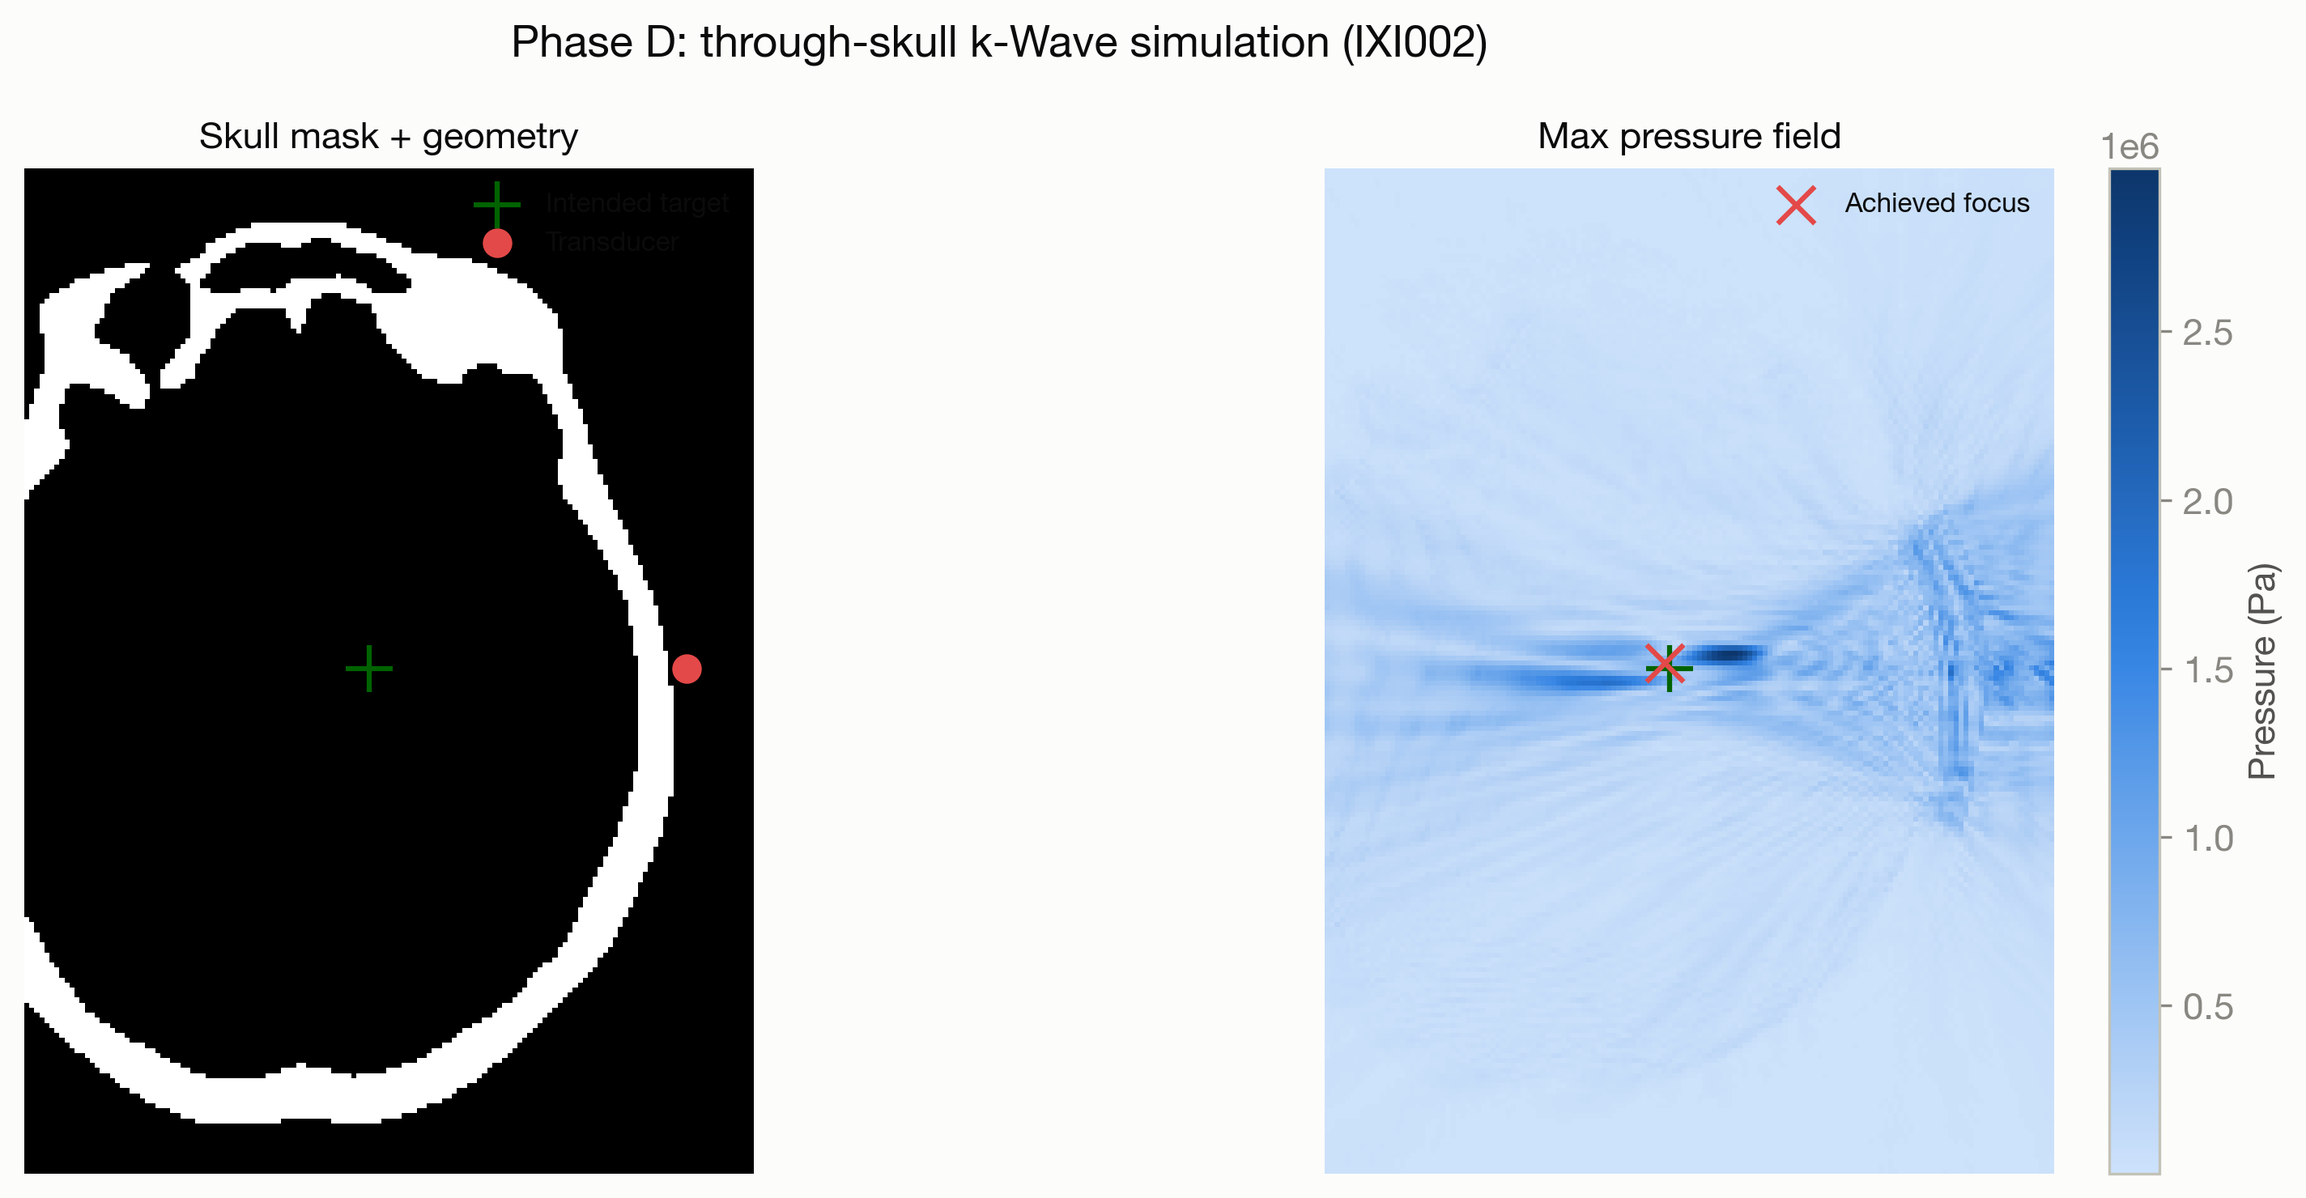
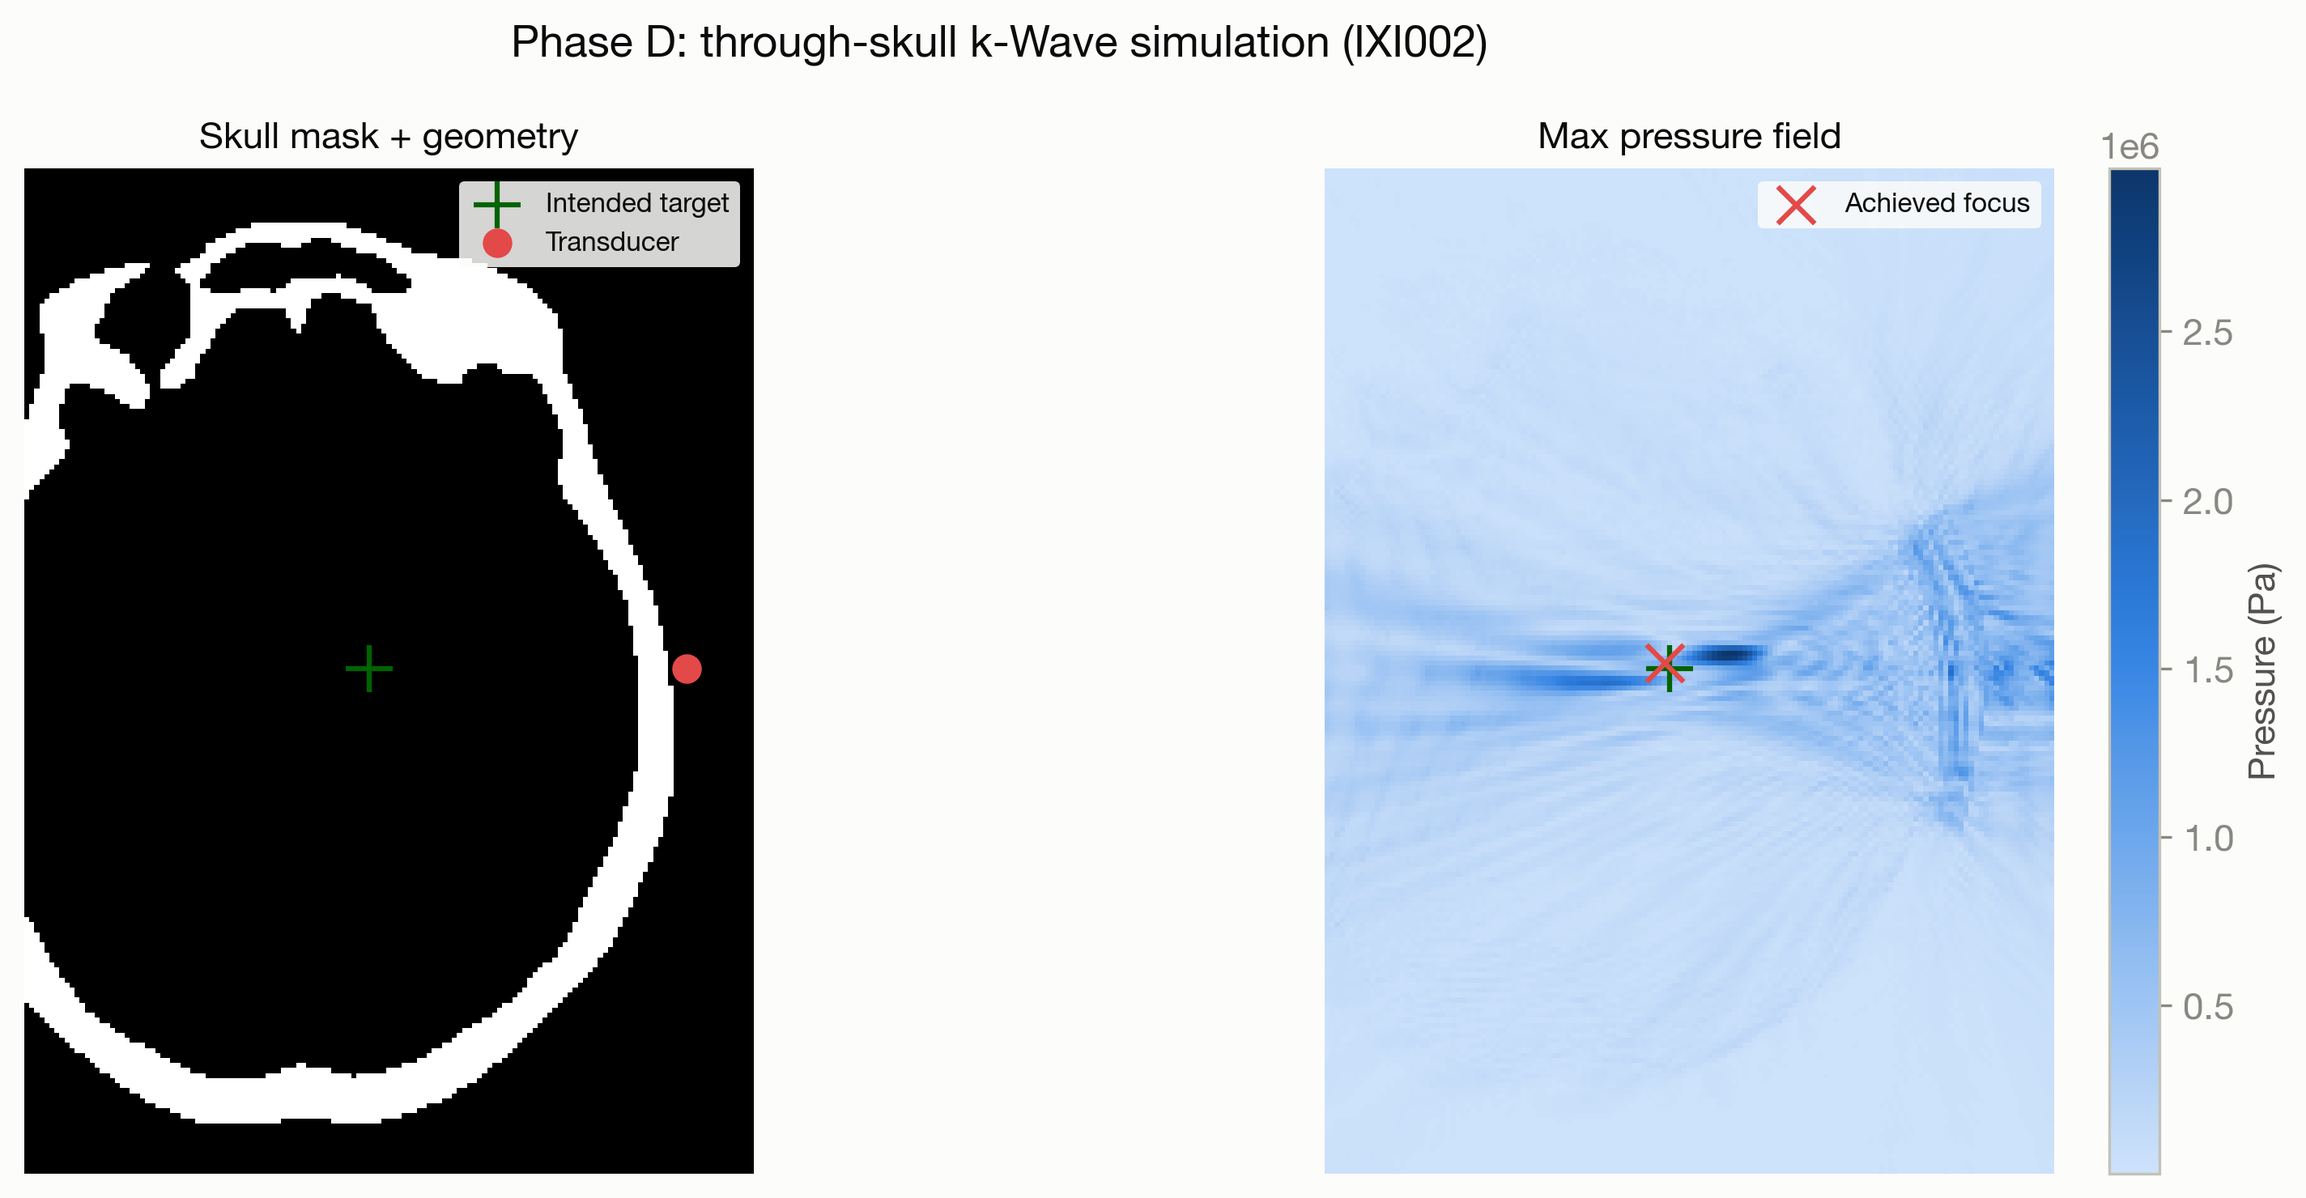
One-subject pipeline Phase F: skull descriptors + legend readability fix
Phase F: src/fus_targeting/features/skull_descriptors.py extracts the
simple, fast skull features the eventual model predicts from --
thickness, mean/max density, SDR (skull density ratio, averaged over
a small ray fan across the aperture), entry angle (beam vs. local
outer-surface normal), and local radius of curvature (quadratic
surface fit to nearby outer-skull points). For IXI002: 6.0mm thick,
1141/1617 HU mean/max, SDR 0.36, 4.4deg entry angle, 156mm ROC --
all in physically plausible ranges.

Investigated and confirmed benign a divide-by-zero/overflow/invalid
RuntimeWarning in the curvature fit's matmul: reproduces even on
random synthetic data whenever a basis vector has an exact-zero
component, is specific to macOS's Accelerate BLAS backend, and the
result is bit-identical to a manual per-row dot product. Suppressed
with a documented comment.

Also: legends in Phase D/E/F figures were unreadable (dark text with
no background, sitting directly over black anatomical-slice
imshows). Added legend_on_image() to the shared style module (opaque
surface-colored background) and regenerated all three figures.

Changed region(s): [[0.1875, 0.1243, 0.3438, 0.2486], [0.75, 0.1243, 0.9062, 0.2176]]

diff --git a/src/fus_targeting/features/skull_descriptors.py b/src/fus_targeting/features/skull_descriptors.py
@@ -1,0 +1,184 @@
+"""Extract simple, fast skull descriptors at the beam entry point -- the
+input features the whole project is trying to predict targeting error and
+energy loss from, without running the full simulation.
+"""
+
+import warnings
+from dataclasses import dataclass
+
+import numpy as np
+
+
+@dataclass
+class SkullDescriptors:
+    entry_point_voxel: np.ndarray
+    thickness_mm: float
+    density_hu_mean: float
+    density_hu_max: float
+    sdr: float                     # skull density ratio (established clinical metric)
+    entry_angle_deg: float         # angle between beam and skull surface normal (0 = perpendicular)
+    radius_of_curvature_mm: float  # local outer-surface radius of curvature at entry point
+
+
+def _sample_ray(volume: np.ndarray, start: np.ndarray, end: np.ndarray, n_samples: int) -> np.ndarray:
+    """Nearest-neighbor sample `volume` along the straight line from start to
+    end (voxel coordinates); fine at 1mm grid resolution for this purpose."""
+    t = np.linspace(0, 1, n_samples)
+    points = start[None, :] + t[:, None] * (end - start)[None, :]
+    idx = np.round(points).astype(int)
+    idx = np.clip(idx, 0, np.array(volume.shape) - 1)
+    return volume[idx[:, 0], idx[:, 1], idx[:, 2]]
+
+
+def _find_outer_skull_surface_points(skull_mask: np.ndarray, center_voxel: np.ndarray, radius_vox: int) -> np.ndarray:
+    """Surface voxels (skull with at least one non-skull neighbor) within a
+    cube of the given radius around center_voxel."""
+    center_voxel = np.round(np.asarray(center_voxel)).astype(int)
+    lo = np.clip(center_voxel - radius_vox, 0, None)
+    hi = np.clip(center_voxel + radius_vox + 1, None, np.array(skull_mask.shape))
+    sub = skull_mask[lo[0]:hi[0], lo[1]:hi[1], lo[2]:hi[2]]
+
+    eroded = np.ones_like(sub, dtype=bool)
+    eroded[1:-1, 1:-1, 1:-1] = sub[1:-1, 1:-1, 1:-1] & sub[:-2, 1:-1, 1:-1] & sub[2:, 1:-1, 1:-1] \
+        & sub[1:-1, :-2, 1:-1] & sub[1:-1, 2:, 1:-1] & sub[1:-1, 1:-1, :-2] & sub[1:-1, 1:-1, 2:]
+    surface = sub & ~eroded
+
+    local_idx = np.argwhere(surface)
+    return local_idx + lo
+
+
+def _estimate_curvature(skull_mask: np.ndarray, entry_point: np.ndarray, direction: np.ndarray, patch_radius_mm: float = 15.0) -> float:
+    """Fit a quadratic surface to local outer-skull points near the entry
+    point (in a frame aligned with the beam direction) and estimate the mean
+    radius of curvature from the fit's second-order coefficients."""
+    surface_points = _find_outer_skull_surface_points(skull_mask, entry_point, int(patch_radius_mm))
+    if len(surface_points) < 10:
+        return np.nan
+
+    centered = surface_points - entry_point
+    dist = np.linalg.norm(centered, axis=1)
+    nearby = centered[dist <= patch_radius_mm]
+    if len(nearby) < 10:
+        return np.nan
+
+    # local frame: u,v span the plane perpendicular to `direction`; w along `direction`
+    w = direction / np.linalg.norm(direction)
+    arbitrary = np.array([1.0, 0.0, 0.0]) if abs(w[0]) < 0.9 else np.array([0.0, 1.0, 0.0])
+    u = np.cross(w, arbitrary); u /= np.linalg.norm(u)
+    v = np.cross(w, u)
+
+    # nearby @ u (etc.) triggers spurious divide-by-zero/overflow/invalid
+    # RuntimeWarnings from macOS's Accelerate BLAS backend whenever u/v/w
+    # has an exact-zero component -- verified against random synthetic data
+    # that the matmul result is bit-identical to a manual per-row dot
+    # product (no NaN/Inf), so this is a known false positive, not a bug.
+    with warnings.catch_warnings():
+        warnings.simplefilter("ignore", RuntimeWarning)
+        uu = nearby @ u
+        vv = nearby @ v
+        ww = nearby @ w
+
+    # fit w = a*u^2 + b*v^2 + c*u*v + d*u + e*v + f
+    A = np.column_stack([uu**2, vv**2, uu * vv, uu, vv, np.ones_like(uu)])
+    coeffs, *_ = np.linalg.lstsq(A, ww, rcond=None)
+    a, b = coeffs[0], coeffs[1]
+
+    mean_curvature = (a + b)  # for a near-flat patch, w ~ a*u^2+b*v^2 -> curvature ~ 2a,2b; a+b is proportional to mean curvature
+    if abs(mean_curvature) < 1e-8:
+        return np.inf
+    return float(1.0 / (2 * abs(mean_curvature)))
+
+
+def compute_skull_descriptors(
+    pct_hu: np.ndarray,
+    skull_mask: np.ndarray,
+    target_voxel: np.ndarray,
+    transducer_voxel: np.ndarray,
+    aperture_diameter_mm: float,
+    dx_mm: float = 1.0,
+    n_beam_rays: int = 9,
+) -> SkullDescriptors:
+    target_voxel = np.asarray(target_voxel, dtype=float)
+    transducer_voxel = np.asarray(transducer_voxel, dtype=float)
+    direction = target_voxel - transducer_voxel
+    axis_length = np.linalg.norm(direction)
+    direction_unit = direction / axis_length
+
+    n_samples = int(axis_length) * 2
+    profile_hu = _sample_ray(pct_hu, transducer_voxel, target_voxel, n_samples)
+    profile_mask = _sample_ray(skull_mask, transducer_voxel, target_voxel, n_samples) > 0.5
+
+    if not profile_mask.any():
+        raise RuntimeError("No skull crossing found along the central beam ray.")
+
+    skull_hu = profile_hu[profile_mask]
+    thickness_mm = float(profile_mask.sum()) * (axis_length * dx_mm / n_samples)
+
+    entry_idx = np.argmax(profile_mask)  # first sample (from transducer side) that's skull
+    entry_point = transducer_voxel + (entry_idx / n_samples) * direction
+
+    # SDR (skull density ratio): min/max HU ratio along parallel rays across
+    # the aperture, averaged -- approximates the clinical SDR definition
+    # (mean of per-element-path min/max ratios) with a small ray fan instead
+    # of full per-element modeling.
+    arbitrary = np.array([1.0, 0.0, 0.0]) if abs(direction_unit[0]) < 0.9 else np.array([0.0, 1.0, 0.0])
+    u = np.cross(direction_unit, arbitrary); u /= np.linalg.norm(u)
+    v = np.cross(direction_unit, u)
+
+    sdr_values = []
+    aperture_radius_vox = (aperture_diameter_mm / 2) / dx_mm
+    offsets = np.linspace(-aperture_radius_vox, aperture_radius_vox, int(np.sqrt(n_beam_rays)))
+    for du in offsets:
+        for dv in offsets:
+            if du**2 + dv**2 > aperture_radius_vox**2:
+                continue
+            offset = du * u + dv * v
+            ray_start = transducer_voxel + offset
+            ray_end = target_voxel + offset
+            ray_hu = _sample_ray(pct_hu, ray_start, ray_end, n_samples)
+            ray_mask = _sample_ray(skull_mask, ray_start, ray_end, n_samples) > 0.5
+            if ray_mask.sum() < 2:
+                continue
+            ray_skull_hu = ray_hu[ray_mask]
+            if ray_skull_hu.max() > 0:
+                sdr_values.append(ray_skull_hu.min() / ray_skull_hu.max())
+    sdr = float(np.mean(sdr_values)) if sdr_values else float(skull_hu.min() / skull_hu.max())
+
+    surface_points = _find_outer_skull_surface_points(skull_mask, np.round(entry_point).astype(int), radius_vox=5)
+    if len(surface_points) > 0:
+        dists = np.linalg.norm(surface_points - entry_point, axis=1)
+        nearest_surface_point = surface_points[np.argmin(dists)].astype(float)
+    else:
+        nearest_surface_point = entry_point
+
+    normal = _estimate_surface_normal(skull_mask, nearest_surface_point)
+    cos_angle = np.clip(abs(np.dot(normal, direction_unit)), -1, 1)
+    entry_angle_deg = float(np.degrees(np.arccos(cos_angle)))
+
+    radius_of_curvature_mm = _estimate_curvature(skull_mask, nearest_surface_point, direction_unit)
+
+    return SkullDescriptors(
+        entry_point_voxel=entry_point,
+        thickness_mm=thickness_mm,
+        density_hu_mean=float(skull_hu.mean()),
+        density_hu_max=float(skull_hu.max()),
+        sdr=sdr,
+        entry_angle_deg=entry_angle_deg,
+        radius_of_curvature_mm=radius_of_curvature_mm,
+    )
+
+
+def _estimate_surface_normal(skull_mask: np.ndarray, point: np.ndarray, radius_vox: int = 4) -> np.ndarray:
+    """Outward normal estimated as the direction from the local skull-voxel
+    centroid to `point` (points from bone mass toward air/outside)."""
+    center = np.round(point).astype(int)
+    lo = np.clip(center - radius_vox, 0, None)
+    hi = np.clip(center + radius_vox + 1, None, np.array(skull_mask.shape))
+    sub = skull_mask[lo[0]:hi[0], lo[1]:hi[1], lo[2]:hi[2]]
+    local_idx = np.argwhere(sub) + lo
+    if len(local_idx) == 0:
+        return np.array([1.0, 0.0, 0.0])
+    centroid = local_idx.mean(axis=0)
+    normal = point - centroid
+    norm = np.linalg.norm(normal)
+    return normal / norm if norm > 1e-6 else np.array([1.0, 0.0, 0.0])

diff --git a/scripts/extract_skull_descriptors.py b/scripts/extract_skull_descriptors.py
@@ -1,0 +1,103 @@
+"""Phase F of the one-subject pipeline: extract the simple, fast skull
+descriptors at the beam entry point (density, thickness, curvature, entry
+angle, SDR) -- the input features the eventual predictive model uses.
+"""
+
+import json
+import sys
+from pathlib import Path
+
+import matplotlib.pyplot as plt
+import nibabel as nib
+import numpy as np
+import yaml
+
+ROOT = Path(__file__).resolve().parents[1]
+sys.path.insert(0, str(ROOT / "src"))
+from fus_targeting.features.skull_descriptors import compute_skull_descriptors  # noqa: E402
+from fus_targeting.simulation.skull_simulation import (  # noqa: E402
+    KNOWN_TARGET_VOXELS,
+    find_lateral_transducer_position,
+)
+from fus_targeting.viz.style import CHROME, legend_on_image, save_figure, sequential_cmap  # noqa: E402
+
+INTERIM_DIR = ROOT / "data" / "interim"
+CONFIG_PATH = ROOT / "configs" / "simulation_matrix.yaml"
+
+
+def display_xy(voxel_idx: np.ndarray, shape: tuple) -> tuple:
+    r, a, _ = voxel_idx
+    return r, shape[1] - 1 - a
+
+
+def main() -> None:
+    subject_id = sys.argv[1] if len(sys.argv) > 1 else "IXI002"
+
+    with open(CONFIG_PATH) as f:
+        config = yaml.safe_load(f)
+    aperture_diameter_mm = config["baseline"]["transducer"]["aperture_diameter_mm"]
+
+    pct_hu = nib.load(INTERIM_DIR / subject_id / "pct.nii").get_fdata()
+    acoustic = np.load(INTERIM_DIR / subject_id / "acoustic_maps.npz")
+    skull_mask = acoustic["skull_mask"]
+
+    target_voxel = KNOWN_TARGET_VOXELS[subject_id]
+    roc_mm = config["baseline"]["transducer"]["radius_of_curvature_mm"]
+    transducer_voxel = find_lateral_transducer_position(skull_mask, target_voxel, roc_mm)
+
+    descriptors = compute_skull_descriptors(
+        pct_hu, skull_mask, target_voxel, transducer_voxel, aperture_diameter_mm,
+    )
+
+    result = {
+        "subject_id": subject_id,
+        "entry_point_voxel": descriptors.entry_point_voxel.tolist(),
+        "thickness_mm": descriptors.thickness_mm,
+        "density_hu_mean": descriptors.density_hu_mean,
+        "density_hu_max": descriptors.density_hu_max,
+        "sdr": descriptors.sdr,
+        "entry_angle_deg": descriptors.entry_angle_deg,
+        "radius_of_curvature_mm": descriptors.radius_of_curvature_mm,
+    }
+    print(json.dumps(result, indent=2))
+
+    out_path = INTERIM_DIR / subject_id / "skull_descriptors.json"
+    with open(out_path, "w") as f:
+        json.dump(result, f, indent=2)
+
+    mid = int(round(target_voxel[2]))
+    fig, axes = plt.subplots(1, 2, figsize=(11, 5))
+
+    axes[0].imshow(np.rot90(skull_mask[:, :, mid]), cmap="gray")
+    axes[0].scatter(*display_xy(target_voxel, skull_mask.shape), c=CHROME["good"], marker="+", s=200, label="Target")
+    axes[0].scatter(*display_xy(transducer_voxel, skull_mask.shape), c="#e34948", marker="o", s=60, label="Transducer")
+    axes[0].scatter(*display_xy(descriptors.entry_point_voxel, skull_mask.shape), c="#eda100", marker="*", s=180, label="Entry point")
+    axes[0].set_title("Beam geometry + entry point", fontsize=11)
+    legend_on_image(axes[0])
+    axes[0].axis("off")
+
+    axes[1].imshow(np.rot90(pct_hu[:, :, mid]), cmap="gray", vmin=-1000, vmax=2000)
+    axes[1].scatter(*display_xy(descriptors.entry_point_voxel, pct_hu.shape), c="#eda100", marker="*", s=180)
+    zoom = 40
+    ep = descriptors.entry_point_voxel
+    axes[1].set_xlim(max(0, ep[0] - zoom), min(pct_hu.shape[0], ep[0] + zoom))
+    axes[1].set_ylim(min(pct_hu.shape[1], pct_hu.shape[1] - ep[1] + zoom), max(0, pct_hu.shape[1] - ep[1] - zoom))
+    axes[1].set_title("Entry point close-up (pseudo-CT)", fontsize=11)
+    axes[1].axis("off")
+
+    summary = (
+        f"thickness={descriptors.thickness_mm:.1f}mm  "
+        f"density(mean/max)={descriptors.density_hu_mean:.0f}/{descriptors.density_hu_max:.0f}HU\n"
+        f"SDR={descriptors.sdr:.2f}  entry angle={descriptors.entry_angle_deg:.1f}deg  "
+        f"ROC={descriptors.radius_of_curvature_mm:.0f}mm"
+    )
+    fig.suptitle(f"Phase F: skull descriptors ({subject_id})\n{summary}", fontsize=12)
+    fig.tight_layout()
+
+    saved_paths = save_figure(fig, f"pipeline_one_subject/{subject_id}_phase_f_skull_descriptors")
+    print(f"Figure:  {saved_paths[0]}")
+    print(f"Labels:  {out_path}")
+
+
+if __name__ == "__main__":
+    main()

diff --git a/scripts/run_skull_simulation.py b/scripts/run_skull_simulation.py
@@ -20,7 +20,7 @@ import numpy as np
 ROOT = Path(__file__).resolve().parents[1]
 sys.path.insert(0, str(ROOT / "src"))
 from fus_targeting.simulation.skull_simulation import prepare_subject_domain, run_through_skull_simulation  # noqa: E402
-from fus_targeting.viz.style import CHROME, save_figure, sequential_cmap  # noqa: E402
+from fus_targeting.viz.style import CHROME, legend_on_image, save_figure, sequential_cmap  # noqa: E402
 
 INTERIM_DIR = ROOT / "data" / "interim"
 CONFIG_PATH = ROOT / "configs" / "simulation_matrix.yaml"
@@ -69,14 +69,14 @@ def main() -> None:
     axes[0].scatter(*display_xy(domain.target_voxel, domain.skull_mask.shape), c=CHROME["good"], marker="+", s=200, label="Intended target")
     axes[0].scatter(*display_xy(domain.transducer_voxel, domain.skull_mask.shape), c="#e34948", marker="o", s=60, label="Transducer")
     axes[0].set_title("Skull mask + geometry", fontsize=11)
-    axes[0].legend(loc="upper right", fontsize=8)
+    legend_on_image(axes[0])
     axes[0].axis("off")
 
     im = axes[1].imshow(np.rot90(p_max[:, :, mid]), cmap=sequential_cmap)
     axes[1].scatter(*display_xy(domain.target_voxel, p_max.shape), c=CHROME["good"], marker="+", s=200)
     axes[1].scatter(*display_xy(np.array(achieved_focus_idx), p_max.shape), c="#e34948", marker="x", s=120, label="Achieved focus")
     axes[1].set_title("Max pressure field", fontsize=11)
-    axes[1].legend(loc="upper right", fontsize=8)
+    legend_on_image(axes[1])
     axes[1].axis("off")
     cbar = fig.colorbar(im, ax=axes[1], fraction=0.046, pad=0.04)
     cbar.set_label("Pressure (Pa)", color=CHROME["ink_secondary"])

diff --git a/scripts/compute_targeting_error.py b/scripts/compute_targeting_error.py
@@ -19,7 +19,7 @@ from fus_targeting.simulation.skull_simulation import (  # noqa: E402
     prepare_subject_domain,
     run_through_skull_simulation,
 )
-from fus_targeting.viz.style import CATEGORICAL, CHROME, save_figure, sequential_cmap  # noqa: E402
+from fus_targeting.viz.style import CATEGORICAL, CHROME, legend_on_image, save_figure, sequential_cmap  # noqa: E402
 
 INTERIM_DIR = ROOT / "data" / "interim"
 CONFIG_PATH = ROOT / "configs" / "simulation_matrix.yaml"
@@ -95,7 +95,7 @@ def main() -> None:
         ax.scatter(*display_xy(intended_target, p_max.shape), c=CHROME["good"], marker="+", s=200, label="Intended target")
         ax.scatter(*display_xy(achieved, p_max.shape), c="#e34948", marker="x", s=120, label="Achieved focus")
         ax.set_title(title, fontsize=11)
-        ax.legend(loc="upper right", fontsize=8)
+        legend_on_image(ax)
         ax.axis("off")
     fig.colorbar(im, ax=axes[1], fraction=0.046, pad=0.04).set_label("Pressure (Pa)", color=CHROME["ink_secondary"])
 

diff --git a/src/fus_targeting/viz/style.py b/src/fus_targeting/viz/style.py
@@ -100,6 +100,15 @@ def apply_style() -> None:
     })
 
 
+def legend_on_image(ax, **kwargs):
+    """Legend readable when placed over an imshow (e.g. a dark anatomical
+    slice) -- the project-wide frameon=False default is invisible there
+    since it relies on the light chart surface showing through."""
+    defaults = dict(loc="upper right", fontsize=8, frameon=True, facecolor=CHROME["surface"], edgecolor="none", framealpha=0.85)
+    defaults.update(kwargs)
+    return ax.legend(**defaults)
+
+
 def save_figure(fig, relative_path: str, project_root: Path | None = None, formats=("png",)) -> list[Path]:
     """Save a figure into the tracked results/figures/ tree.
 
